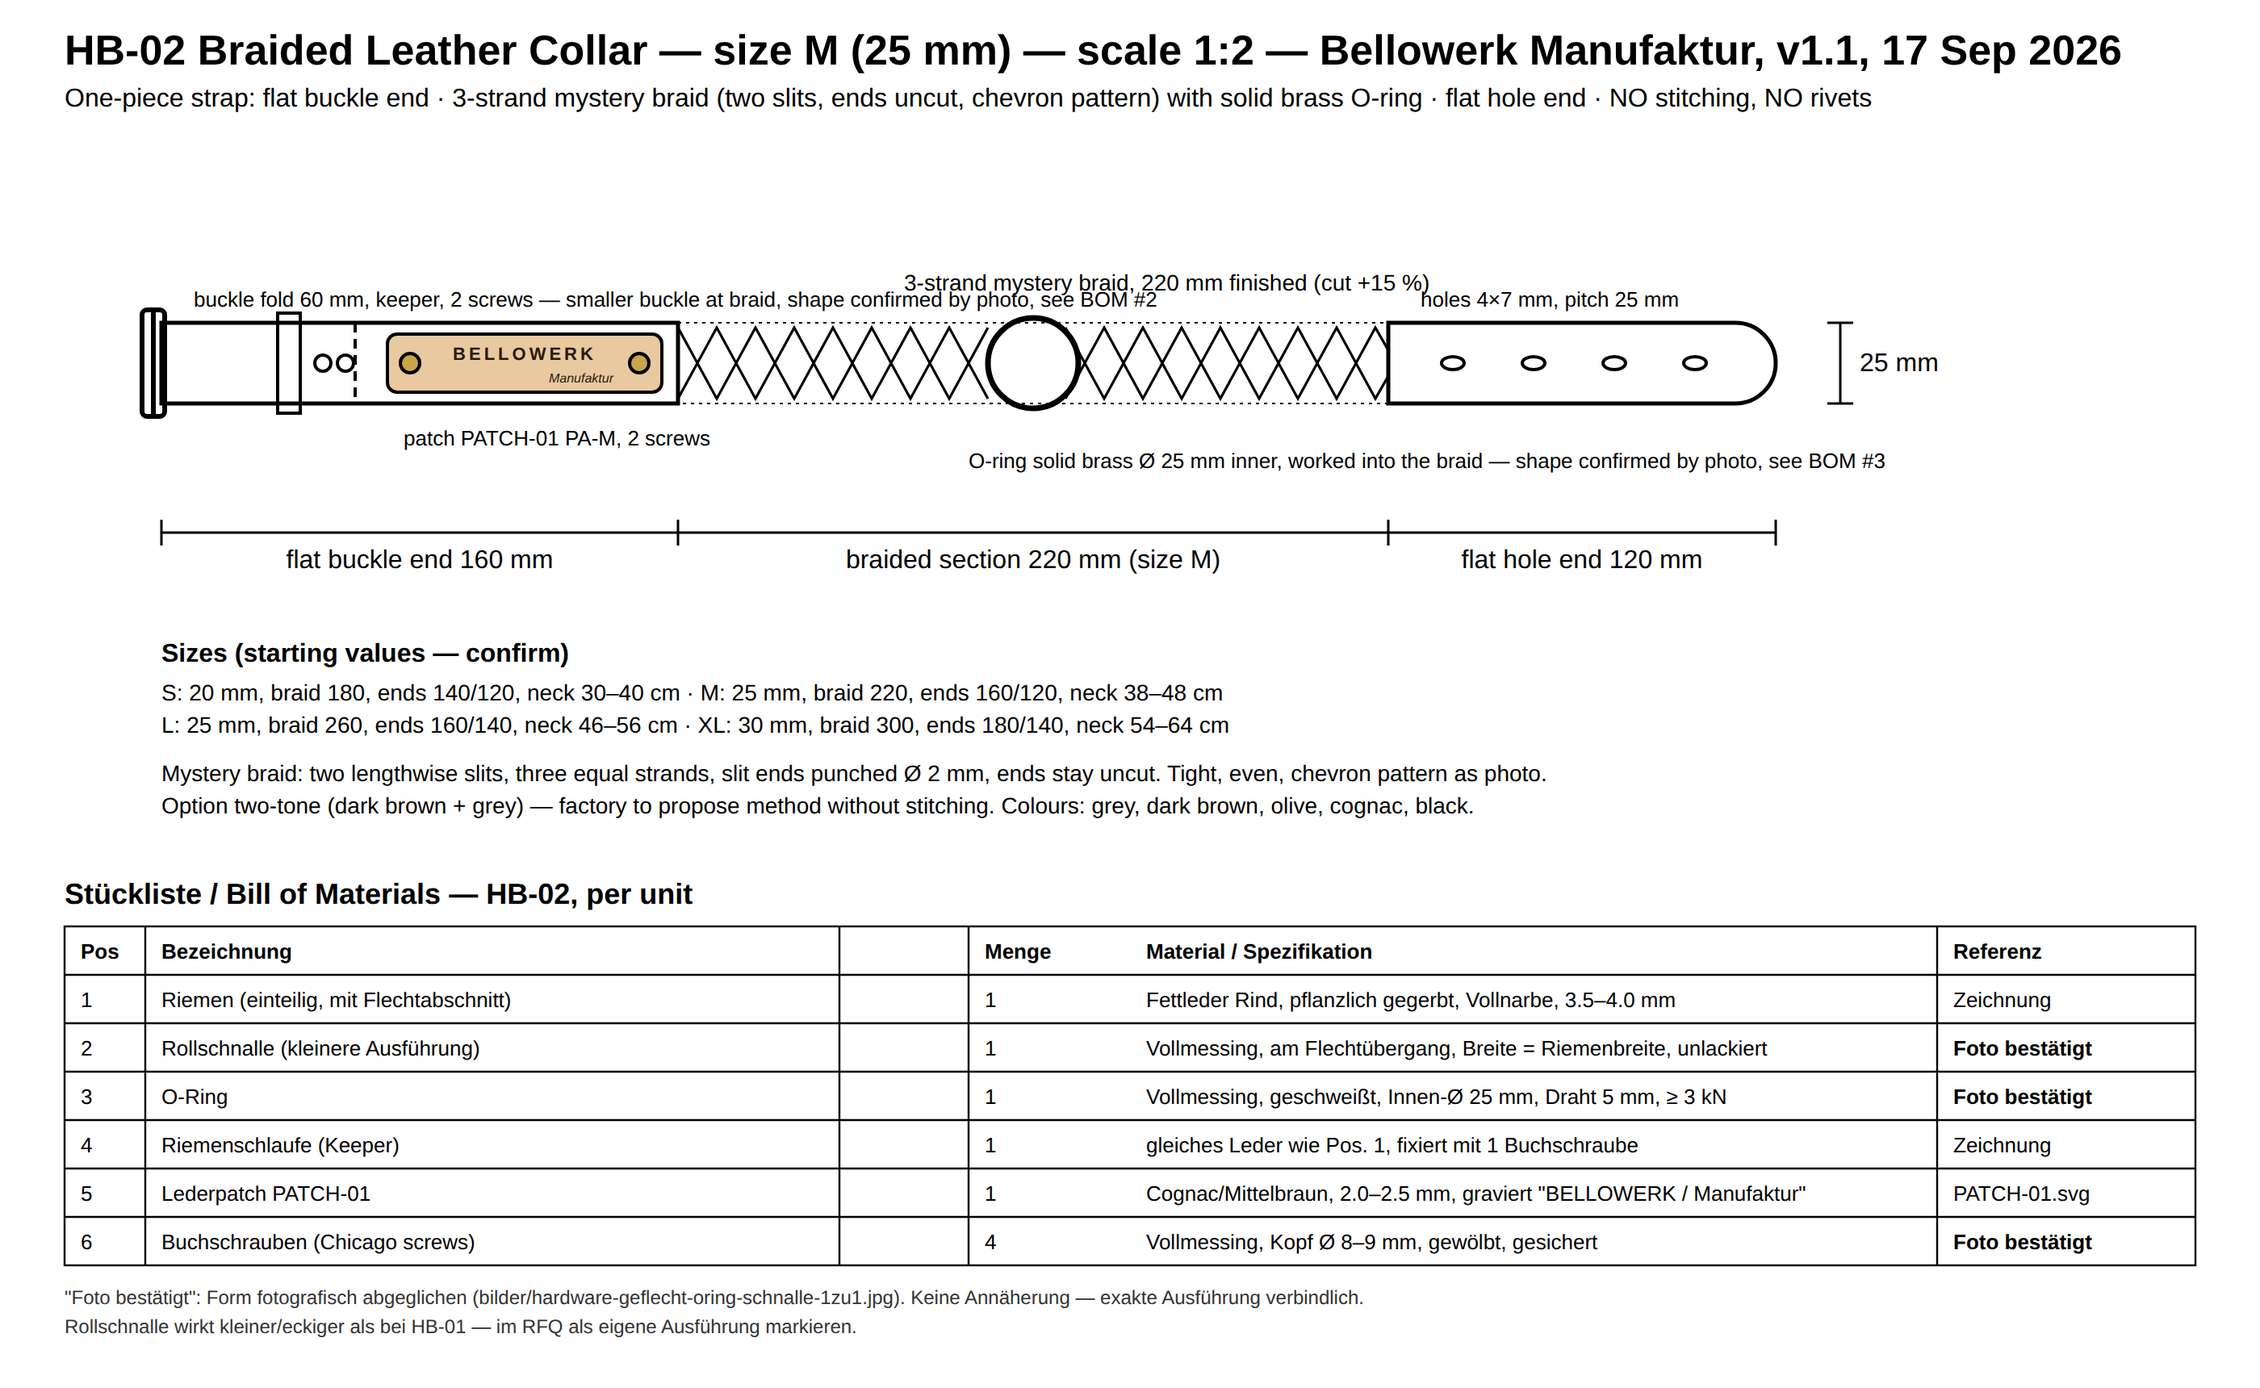
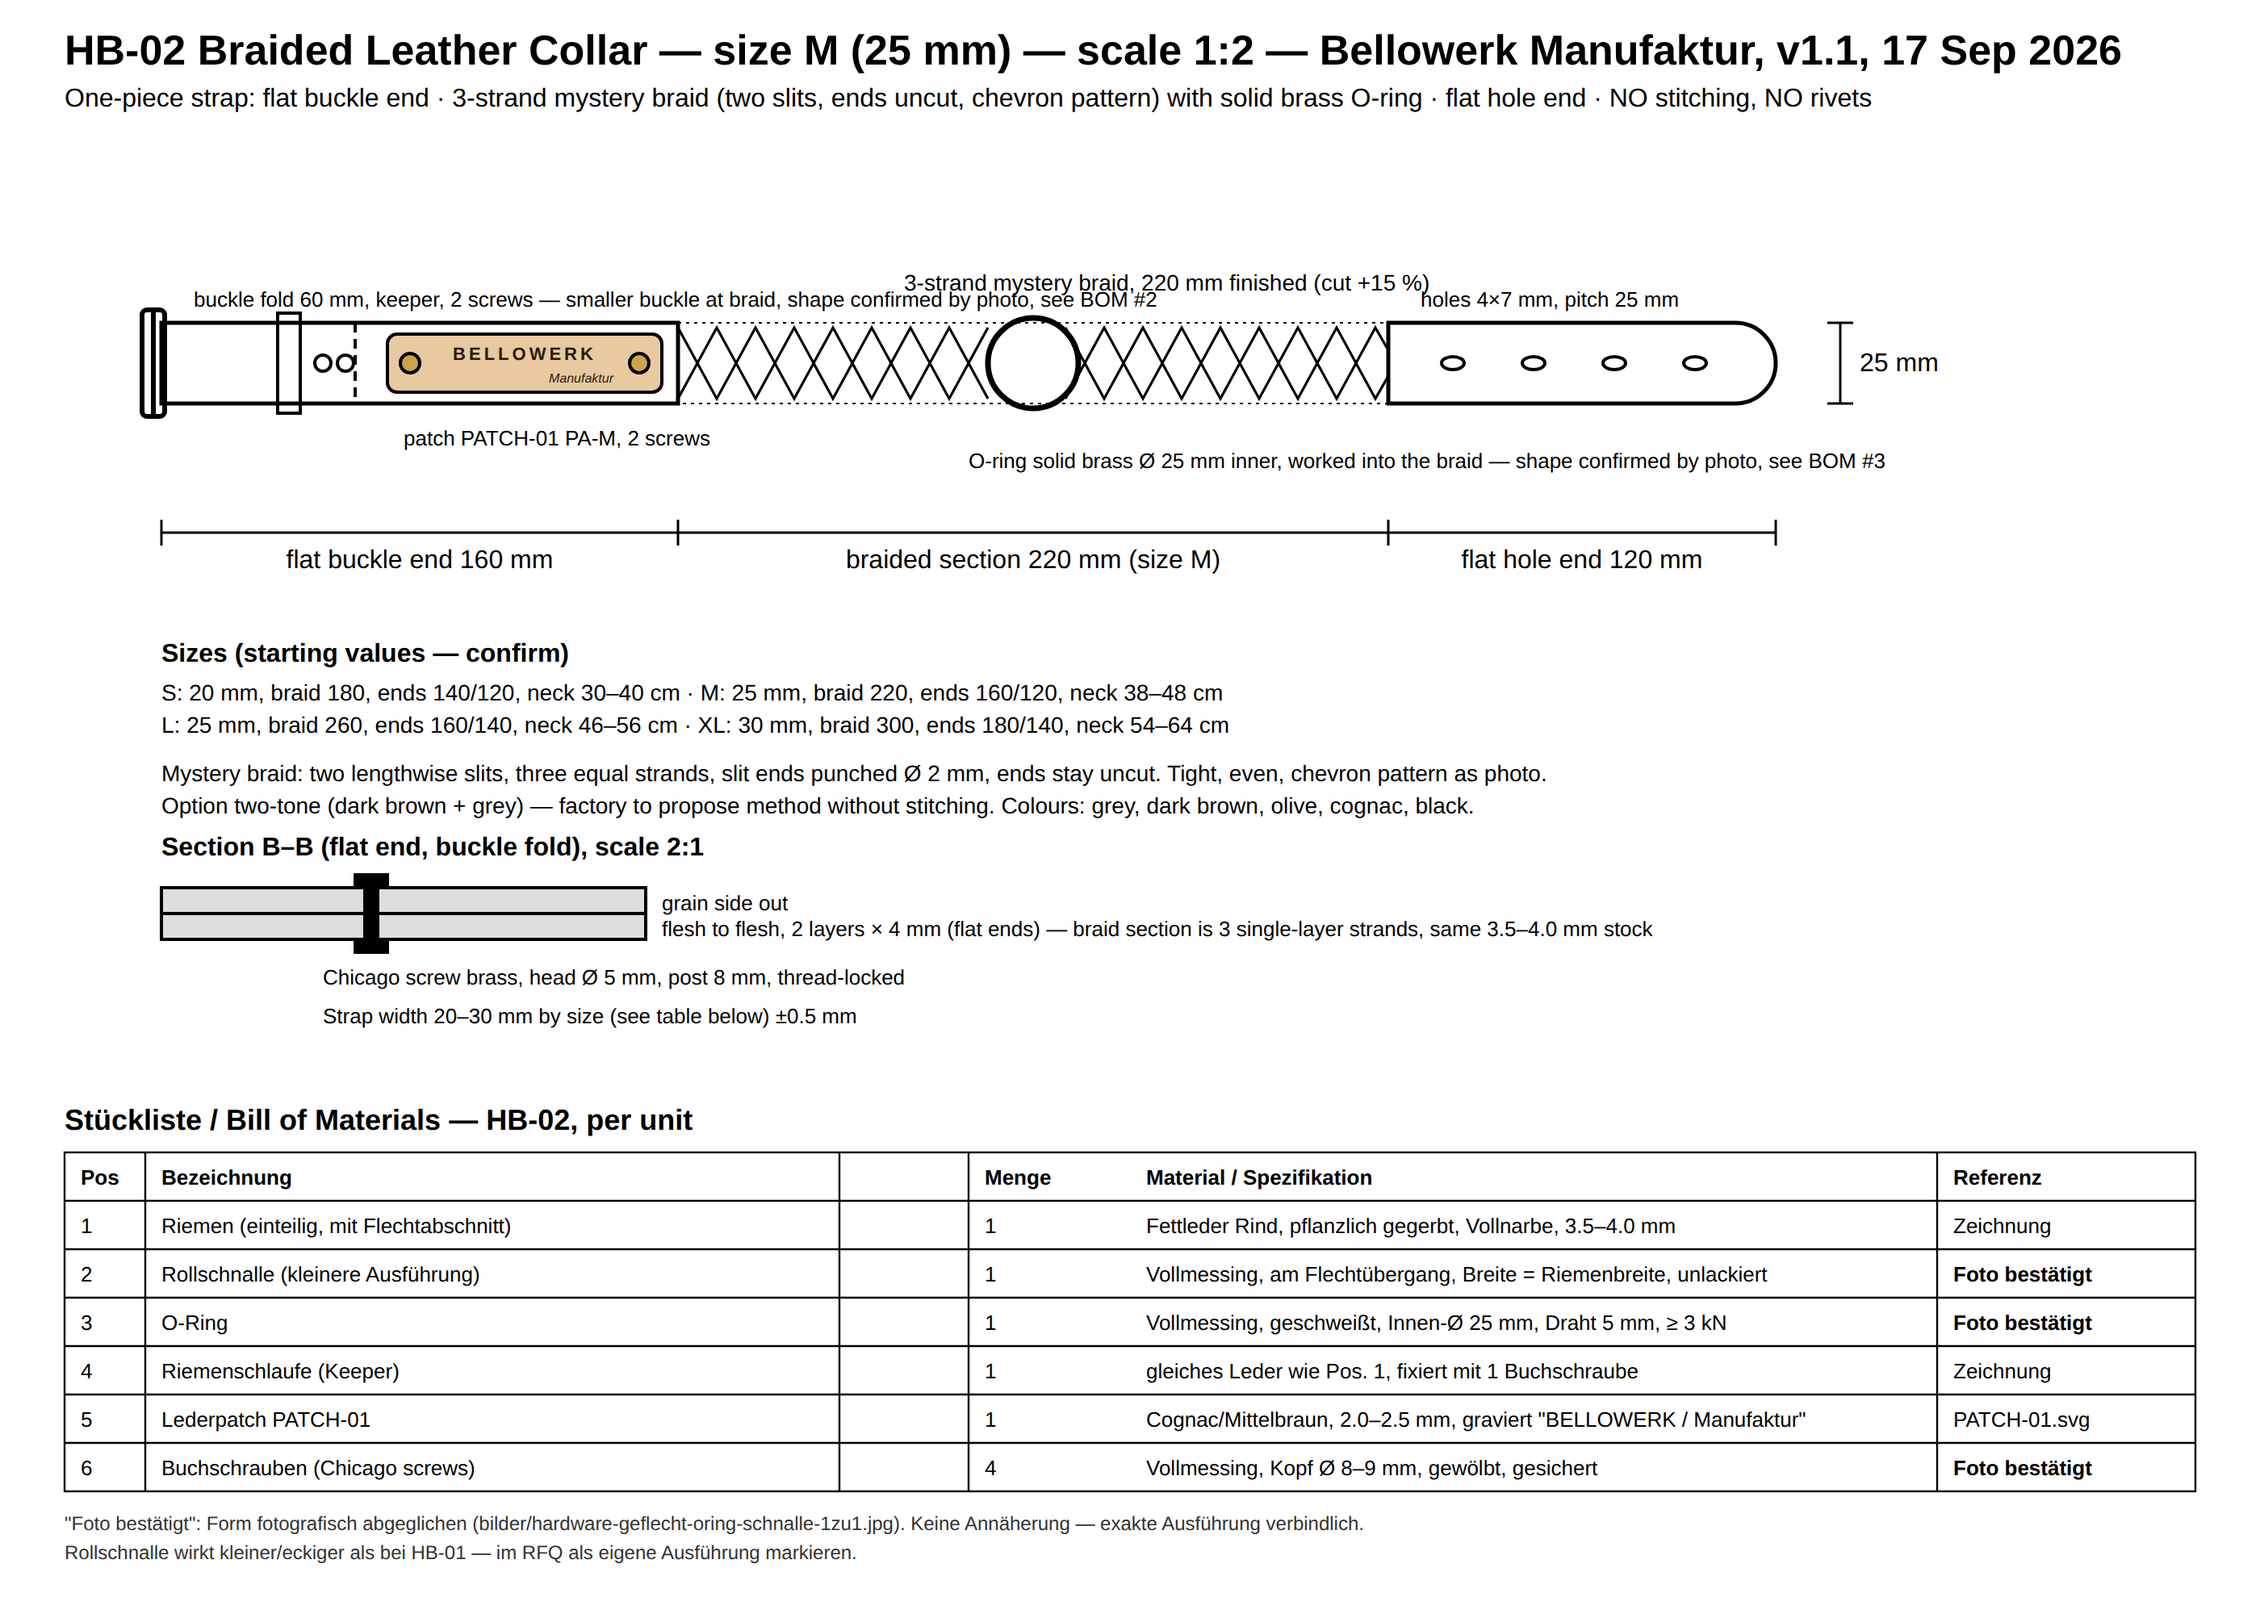
Extend Fertigungsblatt treatment to LE-01 and HS-01, revise order quantities
Add a second (section) view and a Stückliste/BOM table to LE-01 and
HS-01 drawings, matching HB-01/HB-02, and add the same BOM table to
their tech packs. Also switch the ordering strategy across all four
tech packs: leather swatches first (no cost), then a small pilot batch
of 10-20 pcs instead of committing straight to 60-100 pcs.

Changed region(s): [[0.0311, 0.1541, 0.9632, 0.986], [0.0311, 0.0, 0.9321, 0.0924]]

diff --git a/sourcing/bellowerk/specs/LE-01-fuehrleine.md b/sourcing/bellowerk/specs/LE-01-fuehrleine.md
@@ -1,8 +1,10 @@
-# LE-01 — Adjustable Leather Lead, 3.00 m (Tech Pack v1.1, 9 Sep 2026)
+# LE-01 — Adjustable Leather Lead, 3.00 m (Tech Pack v1.2, 18 Sep 2026)
 
 Bellowerk Manufaktur, Hamburg, Germany. Contact: Björn (owner).
-Attachments: `zeichnungen/LE-01-fuehrleine.png`, photos `bilder/LE-01-detail-karabiner-flechtung.jpg`
-(braided hook attachment) and `bilder/LE-01-flechtung-ringe-farben.jpg` (four colours, ring in braid, patch).
+Attachments: `zeichnungen/LE-01-fuehrleine.png` (dimensioned drawing + Bill of Materials), photos
+`bilder/hardware-karabiner-1zu1.jpg`, `bilder/hardware-oring-1zu1.jpg` (photo-confirmed, binding 1:1
+reference for shape), `bilder/LE-01-detail-karabiner-flechtung.jpg` (braided hook attachment) and
+`bilder/LE-01-flechtung-ringe-farben.jpg` (four colours, ring in braid, patch).
 
 ## 1. Product
 
@@ -22,7 +24,21 @@ piece) plus one Chicago screw** — this is the signature look, see photos. Leat
 | Patch | PATCH-01 PA-S (65 × 14 mm), 2 Chicago screws. |
 | Edges | Bevelled, burnished, no paint. |
 
-## 3. Dimensions (all measured from the inner edge of hook A eye, ±1 cm)
+## 3. Bill of Materials (Stückliste), per unit
+
+| Pos | Part | Qty | Material / Spec | Reference |
+|---|---|---|---|---|
+| 1 | Strap (one piece, 360 cm cut) | 1 | Vegetable-tanned oiled cowhide, full grain, 3.5–4.0 mm, 20 mm wide | Drawing / Tech Pack |
+| 2 | Swivel bolt snap | 2 | Solid brass, polished, eye 20 mm, ≥ 2.0 kN | **Photo-confirmed** — `bilder/hardware-karabiner-1zu1.jpg` |
+| 3 | O-ring | 3 | Solid brass, welded, inner Ø 25 mm, wire 5 mm, ≥ 3 kN | **Photo-confirmed** — `bilder/hardware-oring-1zu1.jpg` |
+| 4 | Leather patch PATCH-01 PA-S | 1 | Cognac/medium brown, 2.0–2.5 mm, engraved "BELLOWERK / Manufaktur" | `specs/PATCH-01-markenpatch.md` |
+| 5 | Chicago screws | 5 | Solid brass, domed head Ø 8–9 mm, thread-locked — 1 per braided attachment | **Photo-confirmed** |
+| 6 | Braided attachment at hooks/rings | 5× | 3-strand mystery braid made from the strap itself, no separate part | Drawing, detail view |
+
+"Photo-confirmed" = shape verified against a sharp reference photo of our own existing hardware — not
+an approximation.
+
+## 4. Dimensions (all measured from the inner edge of hook A eye, ±1 cm)
 
 | Position | Item | Distance from hook A |
 |---|---|---|
@@ -47,7 +63,7 @@ Total length hook eye to hook eye: **300 cm**. Rings are fixed (they do not slid
 
 Plus 300 cm with both hooks (two dogs / tie-out).
 
-## 4. Construction — braided attachment (default, as on photos)
+## 5. Construction — braided attachment (default, as on photos)
 
 At each hook and each ring:
 1. Strap end passes through the hook eye / ring and folds back on itself **120 mm**.
@@ -67,18 +83,22 @@ only with Björn's approval, quoted separately.
 Patch PATCH-01 at 80 mm from hook A braid end, centred, 2 screws. All screw heads on the grain side.
 Edges bevelled along the whole length, including the braid strands.
 
-## 5. Quantity and packaging
+## 6. Quantity and packaging (samples-first strategy, revised 18 Sep 2026)
 
-- Samples: 2 pcs (olive, 20 mm). Then 100 pcs: olive 30 / dark brown 30 / cognac 20 / grey 20.
+- **Step 0 — leather swatches:** small swatches of every colour offered (grey, dark brown, olive,
+  cognac), no finished pieces. No cost, no commitment. This is the first thing we ask for.
+- **Step 1 — pre-production sample:** 2 pcs (olive, 20 mm), as before.
+- **Step 2 — pilot batch:** 10 pcs, maybe 20 — **not** a 100-pc firm order. Colour split to be
+  confirmed once golden sample is approved. We want to see how they turn out before committing further.
 - Packing: coiled, paper band, 1 pc per kraft bag with sticker; 10 pcs per inner carton.
 
-## 6. Deliverables with the order
+## 7. Deliverables with the order
 
 Pattern as PDF 1:1 + DXF (strap, slit positions and lengths for the braid, screw positions, ring
 positions), leather data sheet, brass alloy statement, breaking-load test of snaps and rings (and of
 the braided attachment: ≥ 2.0 kN), REACH Cr(VI) test report.
 
-## 7. Questions to answer in your quotation
+## 8. Questions to answer in your quotation
 
 1. Do you make the 3-strand mystery braid attachment in-house? Photo/video of a finished braid.
 2. Unit price EXW, 100 pcs / 300 pcs

diff --git a/sourcing/bellowerk/zeichnungen/README.md b/sourcing/bellowerk/zeichnungen/README.md
@@ -6,16 +6,17 @@ WeChat, E-Mail). Jede Anfrage an einen Lieferanten bekommt die passende PNG plus
 
 | Datei | Modell | Stand |
 |---|---|---|
-| `HB-01-halsband.svg/.png` | Halsband Fettleder, Größe M, Schnallenfalte, Lochbild, Patch-Position, Stückliste | v1.1 |
-| `LE-01-fuehrleine.svg/.png` | Führleine 3,00 m, Ringe 45/140/245 cm, Mystery-Braid-Anbindung, sechs Führlängen | v1.1 |
+| `HB-01-halsband.svg/.png` | Halsband Fettleder, Größe M — Draufsicht + Schnitt A–A, Stückliste | v1.1 |
+| `LE-01-fuehrleine.svg/.png` | Führleine 3,00 m, Ringe 45/140/245 cm, Mystery-Braid-Anbindung — Draufsicht + Schnitt C–C, Stückliste | v1.2 |
 | `PATCH-01-lederpatch.svg/.png` | Lederpatch graviert PA-M 85×18 und PA-S 65×14, Bohrbild, Schnitt | v1.1 |
-| `HS-01-handschlaufe.svg/.png` | Handschlaufe 50 cm | v1.0 |
-| `HB-02-geflochten.svg/.png` | Flechthalsband: flache Enden, Mystery Braid mit O-Ring, Patch, Stückliste | v1.1 |
+| `HS-01-handschlaufe.svg/.png` | Handschlaufe 50 cm — Draufsicht + Schnitt D–D, Stückliste | v1.1 |
+| `HB-02-geflochten.svg/.png` | Flechthalsband: flache Enden, Mystery Braid mit O-Ring — Draufsicht + Schnitt B–B, Stückliste | v1.1 |
 
-Seit v1.1 trägt jede Zeichnung unten eine **Stückliste / Bill of Materials** (Pos, Bezeichnung, Menge,
-Material/Spezifikation, Referenz). Positionen mit "Foto bestätigt" sind gegen ein scharfes
-Referenzfoto aus `../bilder/hardware-*.jpg` abgeglichen — für diese Teile gilt das Foto, nicht die
-schematische Linie, als verbindliche Formvorgabe.
+Jede Zeichnung ist jetzt ein vollständiges **Fertigungsblatt** mit zwei Ansichten (Draufsicht +
+Schnittansicht mit Lederdicke/-breite) und einer **Stückliste / Bill of Materials** unten (Pos,
+Bezeichnung, Menge, Material/Spezifikation, Referenz). Positionen mit "Foto bestätigt" sind gegen ein
+scharfes Referenzfoto aus `../bilder/hardware-*.jpg` abgeglichen — für diese Teile gilt das Foto,
+nicht die schematische Linie, als verbindliche Formvorgabe.
 
 Startwerte (Größentabellen, Lochabstände) sind aus der Kernserie abgeleitet und von Björn am
 Referenzstück zu bestätigen. Änderungen: SVG editieren, dann PNG neu rendern:

diff --git a/sourcing/bellowerk/specs/HS-01-handschlaufe.md b/sourcing/bellowerk/specs/HS-01-handschlaufe.md
@@ -1,6 +1,7 @@
-# HS-01 — Leather Hand Loop, 50 cm (Tech Pack v1.0, 9 Sep 2026)
+# HS-01 — Leather Hand Loop, 50 cm (Tech Pack v1.1, 18 Sep 2026)
 
-Attachments: `zeichnungen/HS-01-handschlaufe.png`.
+Attachments: `zeichnungen/HS-01-handschlaufe.png` (dimensioned drawing + Bill of Materials), photo
+`bilder/hardware-karabiner-1zu1.jpg` (photo-confirmed, binding 1:1 reference for the snap).
 
 ## 1. Product
 
@@ -18,10 +19,21 @@ Closed loop of leather, circumference **50 cm**, with one solid brass swivel tri
 - Leather patch PATCH-01 PA-S on the overlap (default: yes).
 - Edges bevelled and burnished. No stitching, no rivets.
 
-## 3. Quantity
+## 3. Bill of Materials (Stückliste), per unit
 
-Samples 2 pcs olive; then 60 pcs: olive 30 / dark brown 20 / cognac 10.
+| Pos | Part | Qty | Material / Spec | Reference |
+|---|---|---|---|---|
+| 1 | Strap (loop, 600 mm cut) | 1 | Vegetable-tanned oiled cowhide, 3.5–4.0 mm, 20 mm wide | Drawing |
+| 2 | Swivel trigger snap | 1 | Solid brass, eye 20 mm, ≥ 2.0 kN | **Photo-confirmed** — `bilder/hardware-karabiner-1zu1.jpg` |
+| 3 | Leather patch PATCH-01 PA-S | 1 | Cognac/medium brown, engraved "BELLOWERK" | `specs/PATCH-01-markenpatch.md` |
+| 4 | Chicago screws | 4 | Solid brass, head Ø 5 mm, post 8 mm | **Photo-confirmed** |
 
-## 4. Quotation questions
+## 4. Quantity (samples-first strategy, revised 18 Sep 2026)
+
+- **Step 0 — leather swatches:** small swatches of every colour offered, no finished pieces, no cost.
+- **Step 1 — pre-production sample:** 2 pcs olive, as before.
+- **Step 2 — pilot batch:** 10 pcs, maybe 20 — **not** the previous 60-pc firm order.
+
+## 5. Quotation questions
 
 Unit price EXW 60 / 150 pcs · MOQ · sample cost/time · lead time · payment terms · pattern PDF/DXF included.

diff --git a/sourcing/bellowerk/specs/HB-01-halsband.md b/sourcing/bellowerk/specs/HB-01-halsband.md
@@ -65,10 +65,14 @@ width ±0.5 mm, hole pitch ±1 mm. Tip: rounded (English point), radius = half w
 4. Buckle tongue slot 10 mm long, punched clean.
 5. Grain side out. Flesh side lightly finished (no loose fibres, no coating).
 
-## 6. Quantity and packaging
+## 6. Quantity and packaging (samples-first strategy, revised 18 Sep 2026)
 
-- Samples: 1 pc per size, colour olive. Then 100 pcs: S 20 / M 35 / L 30 / XL 15, colours grey /
-  dark brown / olive / cognac (split to be confirmed).
+- **Step 0 — leather swatches:** small swatches of every colour offered (grey, dark brown, olive,
+  cognac), no finished pieces. No cost, no commitment. This is the first thing we ask for.
+- **Step 1 — pre-production sample:** 1 pc per size, colour olive, as before.
+- **Step 2 — pilot batch:** 10 pcs, maybe 20 — **not** the previous 100-pc firm order. Size/colour
+  split to be confirmed once golden sample is approved. We want to see how they turn out before
+  committing to a larger order.
 - Packing: 1 pc in kraft paper bag with size sticker (model, size, colour); 25 pcs per inner carton.
 - Care card (we supply artwork) in each bag.
 

diff --git a/sourcing/bellowerk/specs/HB-02-halsband-geflochten.md b/sourcing/bellowerk/specs/HB-02-halsband-geflochten.md
@@ -62,10 +62,15 @@ braided length. Holes on the flat hole end: 5 holes, pitch 25 mm, as HB-01.
 5. Patch PATCH-01 on the flat buckle end, 30 mm behind the fold.
 6. Edges bevelled and burnished on strap and on every strand.
 
-## 6. Quantity and packaging
+## 6. Quantity and packaging (samples-first strategy, revised 18 Sep 2026)
 
-Samples: 1 pc size M olive, 1 pc size M two-tone (dark brown + grey) if feasible. Then 60 pcs:
-S 10 / M 25 / L 20 / XL 5. Packing as HB-01.
+- **Step 0 — leather swatches:** small swatches of every colour offered (grey, dark brown, olive,
+  cognac, black), no finished pieces. No cost, no commitment. This is the first thing we ask for.
+- **Step 1 — pre-production sample:** 1 pc size M olive, 1 pc size M two-tone (dark brown + grey) if
+  feasible, as before.
+- **Step 2 — pilot batch:** 10 pcs, maybe 20 — **not** the previous 60-pc firm order. Size split to
+  be confirmed once golden sample is approved.
+- Packing as HB-01.
 
 ## 7. Quotation questions
 
